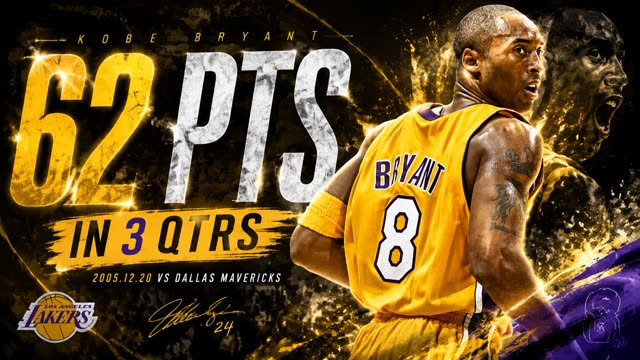
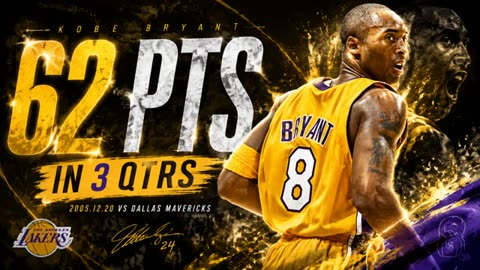
feat(kobe): 科比页视频库扩至109条，新增退役战/总决赛/81分/高分/绝杀/集锦/中国行/纪录片等14组，封面本地化压缩

Changed region(s): [[0.5938, 0.4148, 0.6875, 0.5333], [0.0625, 0.8593, 0.125, 0.8889], [0.1875, 0.6815, 0.2188, 0.7111]]

diff --git a/app/web/assets/js/app.js b/app/web/assets/js/app.js
@@ -1186,75 +1186,182 @@
 
   var KOBE_CLASSICS = [
     {
+      tag: '最后一战 · 退役战 60 分',
+      items: [
+        { id: 'BV1Xv8v6cEHL', title: '最后一舞：退役战 60 分全场回顾', dur: '41:24' },
+        { id: 'BV1sUNW6xEVS', title: '60 分光荣退休：退役战全场集锦', dur: '27:43' },
+        { id: 'BV14e411m7Xf', title: '退役战复盘：爵士真的放水了吗', dur: '19:56' },
+        { id: 'BV1gPYx6GE1r', title: '赛后杨健杨毅解说：60 分谢幕', dur: '16:08' },
+        { id: 'BV11A411H7ii', title: '最后一投与赛后演讲', dur: '5:16' },
+        { id: 'BV15i4y1Q7Wt', title: '60 分之夜：宝刀不老', dur: '10:25' },
+        { id: 'BV1anVUzgEtx', title: '退役战开场：魔术师与群星致敬', dur: '8:21' }
+      ]
+    },
+    {
+      tag: '总决赛 · 三连冠 2000-2002',
+      items: [
+        { id: 'BV17hHY62ES5', title: '2000 总决赛 G5 全场：步行者 33 分大胜湖人', dur: '1:42:27' },
+        { id: 'BV1sM3b6SEN7', title: '2000 总决赛 G4 全集：科比加时接管', dur: '29:39' },
+        { id: 'BV1a5EX6EESV', title: '2000 总决赛 G4：21 岁科比加时接管比赛', dur: '11:30' },
+        { id: 'BV1ouhG6CEjS', title: '2000 G4 奥尼尔六犯离场，科比补篮准绝杀', dur: '7:30' },
+        { id: 'BV1qFjS65Eut', title: '2001 总决赛 G1 全场：艾弗森 48 分破金身', dur: '1:38:05' },
+        { id: 'BV1pK411A7Wg', title: '2001 总决赛全程回顾', dur: '1:27:32' },
+        { id: 'BV11K4y1w7gf', title: '2001 总决赛 经典重现：艾弗森单挑 OK', dur: '59:01' },
+        { id: 'BV1rRTL6KECZ', title: '2001 总决赛 G2 完整回顾：AI 燃尽 vs 巅峰 OK', dur: '1:33:09' },
+        { id: 'BV1YMsW6HEN2', title: '2002 总决赛原声集锦', dur: '17:32' },
+        { id: 'BV1d9sT61EWX', title: '2002 总决赛：科比表现集锦（含颁奖）', dur: '13:00' },
+        { id: 'BV1GkRyYsEnL', title: 'OK 三连冠：2002 总决赛王朝之路', dur: '16:35' }
+      ]
+    },
+    {
+      tag: '总决赛 · 2009-2010 复仇',
+      items: [
+        { id: 'BV1xLTM6SEPZ', title: '2010 总决赛 G7：湖人绿凯抢七全纪录', dur: '49:04' },
+        { id: 'BV1dtPueJEFK', title: '2010 抢七：21 世纪最激烈对决', dur: '33:28' },
+        { id: 'BV1tkjE65Ey2', title: '2010 G7 上半场：科比全场被包夹', dur: '11:01' },
+        { id: 'BV1ivHG6WEfB', title: '2010 总决赛全高光：复仇绿军第五冠', dur: '27:09' },
+        { id: 'BV19gKJ6fEex', title: '2010 总决赛 G7 决胜时刻完整回顾', dur: '19:59' },
+        { id: 'BV1Tu7S6wEy7', title: '最惨烈的冠军：2010 抢七复仇绿军', dur: '14:26' },
+        { id: 'BV1dJeW6jEfY', title: '2010 总决赛 G7 湖人 vs 凯尔特人 抢七夺冠', dur: '6:25' },
+        { id: 'BV1aERFYAEQP', title: '2010 抢七逆转绿军，复仇夺冠', dur: '2:45' },
+        { id: 'BV1Dftd6EEGQ', title: '2009 总决赛 G5 第四节（粤语解说）', dur: '50:22' },
+        { id: 'BV1Tct36JEqy', title: '2009 总决赛 G4 第一节（粤语解说）', dur: '41:04' },
+        { id: 'BV19zgK6KE5u', title: '2009 总决赛高光：生涯首座 FMVP', dur: '14:40' },
+        { id: 'BV1kNKU6RE2r', title: '2009 总决赛 G1：科比 40 分 8 板 8 助', dur: '15:00' }
+      ]
+    },
+    {
       tag: '81 分之夜 · 2006',
       items: [
+        { id: 'BV1U4qgBNEvb', title: '传奇 81 分：The Legend of the 81-Point Game', dur: '1:14:05' },
+        { id: 'BV1R6uF67E4s', title: '黑曼巴 81 分屠龙：完整回顾', dur: '30:06' },
+        { id: 'BV1eEkFBbEoV', title: '81 分屠龙夜：猛龙板凳席视角', dur: '17:33' },
+        { id: 'BV1DbfSYVEj1', title: '81 分夜经典复盘', dur: '12:14' },
         { id: 'BV1zLNy6BE3T', title: '一战封神：重温 81 分屠龙神迹', dur: '27:51' },
         { id: 'BV1scEK6rEmE', title: '半场 55 分、全场 81 分的统治级表演', dur: '5:22' },
+        { id: 'BV1LgfoYzEej', title: '81 分与三节 62 分的统治力', dur: '5:31' },
         { id: 'BV1QhKCzkEbZ', title: '2006 年的 8 号科比到底有多强', dur: '1:14' }
       ]
     },
     {
-      tag: '总决赛 · 完整回顾',
-      items: [
-        { id: 'BV13hMM6YEPA', title: '2001 总决赛 G1 完整回顾：艾弗森 48 分破不败金身', dur: '1:34:37' },
-        { id: 'BV1rRTL6KECZ', title: '2001 总决赛 G2 完整回顾：AI 燃尽 vs 巅峰 OK', dur: '1:33:09' },
-        { id: 'BV19gKJ6fEex', title: '2010 总决赛 G7 决胜时刻完整回顾', dur: '19:59' },
-        { id: 'BV1Tu7S6wEy7', title: '最惨烈的冠军：2010 抢七复仇绿军', dur: '14:26' },
-        { id: 'BV1kNKU6RE2r', title: '2009 总决赛 G1：科比 40 分 8 板 8 助', dur: '15:00' },
-        { id: 'BV1a5EX6EESV', title: '2000 总决赛 G4：21 岁科比加时接管比赛', dur: '11:30' },
-        { id: 'BV1ouhG6CEjS', title: '2000 G4 奥尼尔六犯离场，科比补篮准绝杀', dur: '7:30' },
-        { id: 'BV1dJeW6jEfY', title: '2010 总决赛 G7 湖人 vs 凯尔特人 抢七夺冠', dur: '6:25' },
-        { id: 'BV1aERFYAEQP', title: '2010 抢七逆转绿军，复仇夺冠', dur: '2:45' }
-      ]
-    },
-    {
-      tag: '三节 62 分 · 2005',
+      tag: '高分盛宴 · 62 / 61 / 55',
       items: [
         { id: 'BV1CL8q6QEch', title: '三节 62 分屠牛：一人得分超小牛全队', dur: '32:13' },
-        { id: 'BV1qWuz6aEcr', title: '单节 30 分、三节 52 分打爆西部第一爵士', dur: '3:31' },
-        { id: 'BV1mah56iEhd', title: '2002 西决 G4：最后 5 分钟连拿 10 分准绝杀马刺', dur: '6:36' }
+        { id: 'BV1Q8ga6MEbP', title: '2005 年三节 62 分：极致的得分盛宴', dur: '5:52' },
+        { id: 'BV1ovbv6TEgp', title: '科比和小牛的故事：三节 62 分', dur: '9:31' },
+        { id: 'BV1HtbW6VEM3', title: '麦迪逊广场花园 61 分：打服纽约球迷', dur: '25:00' },
+        { id: 'BV1DDTd6cE1w', title: '61 分封神战：客场高呼 MVP', dur: '12:03' },
+        { id: 'BV19MbE6DEXb', title: '最后一次乔科大战：55 分 9 记三分', dur: '14:52' },
+        { id: 'BV1Uitu62ErX', title: '03 年对阵奇才：55 分全场精彩时刻', dur: '4:47' },
+        { id: 'BV1qWuz6aEcr', title: '单节 30 分、三节 52 分打爆西部第一爵士', dur: '3:31' }
       ]
     },
     {
-      tag: '谢幕之战 · 60 分',
+      tag: '连续 4 场 50+ · 12 记三分',
       items: [
-        { id: 'BV1sUNW6xEVS', title: '60 分光荣退休：退役战全场集锦', dur: '27:43' },
-        { id: 'BV1Aobk6KELy', title: '最后一季，每一帧都是青春（上）', dur: '20:25' },
-        { id: 'BV1anVUzgEtx', title: '退役战开场：魔术师与群星致敬科比', dur: '8:21' }
+        { id: 'BV16Yy4z6EsS', title: '连续 4 场 50+ 第一场：65 分打开序幕', dur: '40:38' },
+        { id: 'BV1YzYx67EW3', title: '连续 4 场 50+：65 分只是开始', dur: '11:35' },
+        { id: 'BV1VJHn6iEvj', title: '65 分开启连续 4 场 50+ 神迹', dur: '16:00' },
+        { id: 'BV1XsWU6XE77', title: '对开拓者 65 分（第一场）集锦', dur: '9:42' },
+        { id: 'BV1thtN6vELd', title: '单场 12 记三分：45 分射落超音速', dur: '7:33' },
+        { id: 'BV148pm6qEEs', title: '12 记三分单场纪录', dur: '2:29' },
+        { id: 'BV1Ypgu6yESE', title: '95 秒 3 记三分，13 年绝境三连击又是猛龙', dur: '8:10' }
       ]
     },
     {
-      tag: '纪录片 · 科比的缪斯',
+      tag: '绝杀与名场面',
       items: [
-        { id: 'BV1MeGh6eEPM', title: '科比的缪斯 Kobe Bryant\'s Muse（中文字幕 1080P 完整版）', dur: '2:23:50' },
-        { id: 'BV1SAK5efEoN', title: '曼巴三部曲（二）：从小飞侠到黑曼巴', dur: '27:41' },
-        { id: 'BV1T1Jj6LER5', title: '科比生涯纪录片全集（下）', dur: '19:19' },
-        { id: 'BV1cqYVz3EDG', title: '黑曼巴十年五冠封神巅峰', dur: '11:58' },
-        { id: 'BV1aSgH6yE59', title: '8 号是暴力美学，24 号是技术大成：生涯十佳球', dur: '6:43' }
-      ]
-    },
-    {
-      tag: '名场面 · 绝杀',
-      items: [
-        { id: 'BV1Ypgu6yESE', title: '95 秒 3 记三分，13 年绝境三连击又是猛龙', dur: '8:10' },
+        { id: 'BV1t5Nr6kEih', title: '季后赛双绝杀太阳：决胜时刻全记录', dur: '30:32' },
+        { id: 'BV14z9MBTEBv', title: 'NBA 历史首个双绝杀', dur: '2:43' },
+        { id: 'BV1wzYe6nEyW', title: '漂移三分绝杀热火：科比 33 分 vs 韦德 26 分', dur: '30:50' },
+        { id: 'BV1To9MYLE63', title: '0.3 秒绝杀：全世界都知道他要投', dur: '1:59' },
+        { id: 'BV1X3hJ6sEL7', title: '2009 湖人 vs 热火：打板绝杀全程', dur: '47:58' },
+        { id: 'BV1nVMg6XEkY', title: '0.4 秒史诗绝杀：09 科韦之战', dur: '19:12' },
+        { id: 'BV174xH6sEum', title: 'NBA 史上最残暴隔扣合集', dur: '9:56' },
+        { id: 'BV1zotu6AEMd', title: '科比生涯隔扣集锦', dur: '9:04' },
+        { id: 'BV1V841147xF', title: '生涯 35 次绝杀全记录', dur: '2:25' },
         { id: 'BV1WT421v7q9', title: '2006 首轮 G4：双绝杀太阳的背后', dur: '1:40' },
         { id: 'BV15F411z7Jb', title: '经典绝杀系列：双绝杀太阳', dur: '0:49' }
       ]
     },
     {
-      tag: '开讲啦 · 科比中国行',
+      tag: '生涯集锦 · 百佳球',
+      items: [
+        { id: 'BV1UU3y6qErK', title: '从 8 号到 24 号：生涯 40 佳球', dur: '10:55' },
+        { id: 'BV1ZVLQ6JE72', title: '曼巴记忆：生涯十佳球', dur: '3:00' },
+        { id: 'BV1aSgH6yE59', title: '8 号是暴力美学，24 号是技术大成：十佳球', dur: '6:43' },
+        { id: 'BV1BYNE6cEjx', title: '40 大实战扣篮：美如画不止跳投', dur: '8:35' },
+        { id: 'BV1z4411u7n7', title: '回顾老大美如画的后仰跳投', dur: '8:14' },
+        { id: 'BV1RnpM6gENN', title: '沉浸式欣赏科比招牌后仰', dur: '7:37' },
+        { id: 'BV1bXVL6FE53', title: '乔丹 & 科比后仰跳投混剪', dur: '6:01' },
+        { id: 'BV1aB4y1N7fL', title: '科比的过人技术', dur: '3:00' },
+        { id: 'BV14Un16fEq6', title: '史上最顶级的单打球手', dur: '14:21' }
+      ]
+    },
+    {
+      tag: '中国行',
       items: [
         { id: 'BV1r7411673K', title: '开讲啦：科比讲述黑曼巴精神（完整）', dur: '44:29' },
         { id: 'BV1tV4y1C71Y', title: '开讲啦：黑曼巴的由来', dur: '2:49' },
-        { id: 'BV1rV4y1C7YB', title: '开讲啦：杰伦唱歌比打球好', dur: '2:01' }
+        { id: 'BV1rV4y1C7YB', title: '开讲啦：杰伦唱歌比打球好', dur: '2:01' },
+        { id: 'BV1yJ411371p', title: '中国行和路人单挑：祭出 60% 功力', dur: '3:45' },
+        { id: 'BV1SW4y137fW', title: '中国行人气：万人空巷', dur: '2:49' },
+        { id: 'BV1f5411d72R', title: '上海行与球迷单挑（原声高清）', dur: '2:04' },
+        { id: 'BV1Mo4y1P7Z7', title: '亚洲行中国台湾省见面会', dur: '52:58' },
+        { id: 'BV13s411v7pB', title: '星球者联盟发布会：退役后中国首秀', dur: '42:15' },
+        { id: 'BV14741167Ls', title: '对中国球迷说：新年快乐，我爱你们', dur: '2:28' }
       ]
     },
     {
       tag: '篮球公园 · 央视镜头',
       items: [
-        { id: 'BV1HT411R7jV', title: '篮球公园：科比教你篮球绝招', dur: '8:42' },
         { id: 'BV1mt411S7iw', title: '篮球公园：张卫平专访科比', dur: '7:01' },
-        { id: 'BV1Et4y1G7Tn', title: '2007 篮球公园：科比交易？最后的 OK 组合', dur: '4:09' }
+        { id: 'BV1Et4y1G7Tn', title: '2007 篮球公园：科比交易？最后的 OK 组合', dur: '4:09' },
+        { id: 'BV1HT411R7jV', title: '篮球公园：科比教你篮球绝招', dur: '8:42' }
+      ]
+    },
+    {
+      tag: '纪录片 · 专访',
+      items: [
+        { id: 'BV1MeGh6eEPM', title: '科比的缪斯 Kobe Bryant\'s Muse（中文字幕 1080P 完整版）', dur: '2:23:50' },
+        { id: 'BV14p4y197Hp', title: '科比生涯纪录片《Muse》', dur: '1:23:09' },
+        { id: 'BV1V7411h7Hs', title: '科比的一天 Kobe Doin\' Work（斯派克·李）', dur: '1:31:03' },
+        { id: 'BV1SAK5efEoN', title: '曼巴三部曲（二）：从小飞侠到黑曼巴', dur: '27:41' },
+        { id: 'BV1T1Jj6LER5', title: '科比生涯纪录片全集（下）', dur: '19:19' },
+        { id: 'BV1cqYVz3EDG', title: '黑曼巴十年五冠封神巅峰', dur: '11:58' },
+        { id: 'BV1HD4y1X7pv', title: '科比生涯最励志的一段采访', dur: '33:51' },
+        { id: 'BV1bs411W78y', title: '科比 TED 演讲：意志的力量', dur: '42:08' },
+        { id: 'BV1No4y1R7mb', title: '跟腱断裂后的采访：眼眶泛泪', dur: '7:04' },
+        { id: 'BV1YYsbzSER6', title: '跟腱断裂仍坚持罚球', dur: '5:04' }
+      ]
+    },
+    {
+      tag: '退役演讲 · 球衣退役 · 奥斯卡',
+      items: [
+        { id: 'BV18PQeBuEVp', title: '科比退役演讲', dur: '3:01' },
+        { id: 'BV1f54y1s7xT', title: '球衣退役全程（中文回顾）', dur: '15:28' },
+        { id: 'BV194rYYZEjs', title: '球衣退役仪式演讲（中英字幕）', dur: '14:15' },
+        { id: 'BV1yu411r7SF', title: '球衣退役演讲：梦想不是终点', dur: '4:06' },
+        { id: 'BV1mW411x7p9', title: '奥斯卡最佳短片《亲爱的篮球》+ 获奖感言', dur: '13:55' },
+        { id: 'BV1gE411Z7GX', title: '亲爱的篮球完整版', dur: '5:23' },
+        { id: 'BV15x4y1174u', title: '雕像揭幕：菲尔·杰克逊致辞', dur: '11:01' }
+      ]
+    },
+    {
+      tag: '经典比赛',
+      items: [
+        { id: 'BV18nMF6MEpm', title: '2008 西决：20 分大逆转马刺', dur: '39:43' },
+        { id: 'BV1tCNx6qES3', title: '2010 湖人 vs 骑士全场回放', dur: '1:09:03' },
+        { id: 'BV1q7Hf6HEma', title: '2009 湖人 vs 骑士全场解说', dur: '53:46' }
+      ]
+    },
+    {
+      tag: '全明星 · 奥运 · 圣诞',
+      items: [
+        { id: 'BV1UF411y7n7', title: '2008 北京奥运男篮决赛：美国 vs 西班牙', dur: '2:12:26' },
+        { id: 'BV1uyuu6qEmm', title: '2012 全明星最后决胜阶段', dur: '4:45' },
+        { id: 'BV18Utb6gE9E', title: '2001 全明星全场精彩时刻', dur: '9:42' },
+        { id: 'BV1d1bT6dEdx', title: '2013 全明星全场精彩时刻', dur: '8:32' }
       ]
     }
   ];
@@ -2684,3 +2791,4 @@
   renderBgm();
   route();
 })();
+
